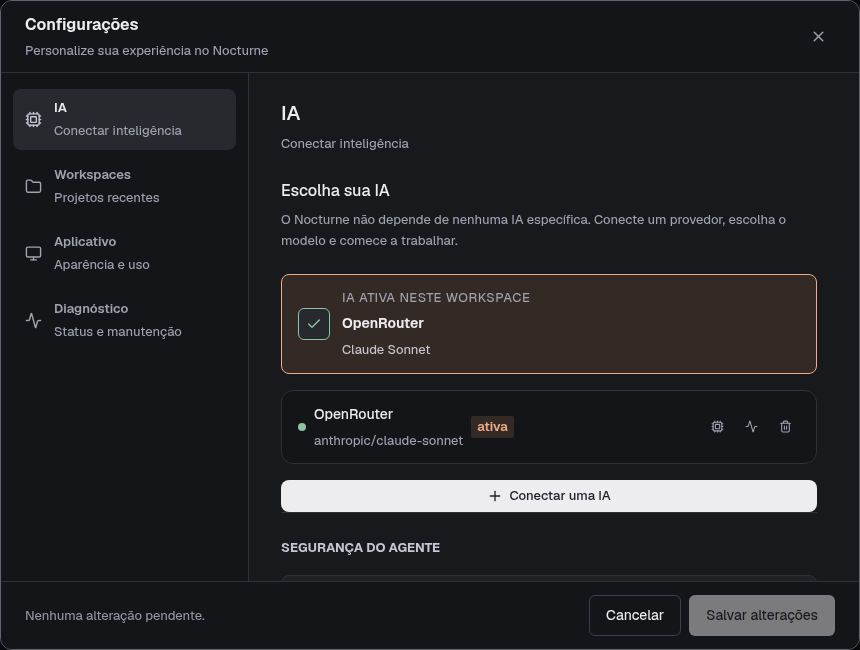
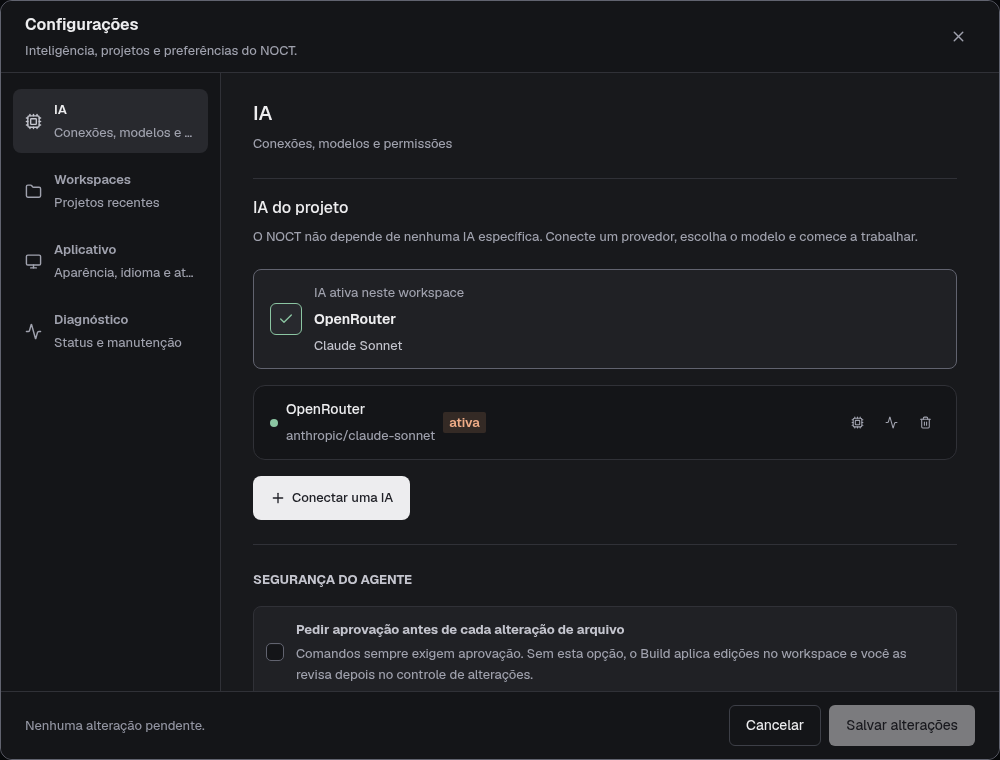
docs: update workspace design and screenshots

diff --git a/DESIGN.md b/DESIGN.md
@@ -144,24 +144,38 @@ components:
     typography: "{typography.label}"
     rounded: "{rounded.md}"
   mode-selected:
-    backgroundColor: "{colors.surface-hover}"
+    backgroundColor: "{colors.surface-raised}"
     textColor: "{colors.text}"
     typography: "{typography.label}"
     rounded: "{rounded.sm}"
-    padding: "6px 8px"
-    height: "32px"
+    padding: "8px 12px"
+    height: "52px"
   command-row:
     backgroundColor: "transparent"
     textColor: "{colors.text-secondary}"
     typography: "{typography.body}"
     rounded: "{rounded.md}"
-    padding: "8px 0"
+    padding: "8px 12px"
     height: "64px"
   composer:
-    backgroundColor: "{colors.surface}"
+    backgroundColor: "{colors.panel}"
     textColor: "{colors.text}"
     typography: "{typography.body}"
     rounded: "{rounded.lg}"
+  workspace-selector:
+    backgroundColor: "{colors.surface}"
+    textColor: "{colors.text}"
+    typography: "{typography.label}"
+    rounded: "{rounded.md}"
+    padding: "12px"
+    height: "64px"
+  provider-option:
+    backgroundColor: "{colors.panel}"
+    textColor: "{colors.text}"
+    typography: "{typography.body}"
+    rounded: "{rounded.md}"
+    padding: "12px"
+    height: "84px"
   settings-field:
     backgroundColor: "{colors.panel}"
     textColor: "{colors.text}"
@@ -179,13 +193,14 @@ components:
 
 A precise desktop workspace whose hierarchy comes from alignment, readable text, and useful content. Neutral charcoal surfaces, pale primary controls, quiet separators, and restrained peach details support long engineering sessions. The light theme follows the same neutral structure with dark primary controls.
 
-Zed, Linear, and Raycast inform the compact desktop grammar. Nocturne retains its own small generated raster N in ivory and muted peach in the brand and assistant identity. The user rejected the illustrated workshop and owl; the confirmed identity has no mascot or large illustration. Navigation, conversation, and evidence remain visibly distinct.
+Zed, Linear, and Raycast inform the compact desktop grammar. Nocturne retains its own small generated raster N in ivory and muted peach in the brand and assistant identity. The user rejected the illustrated workshop and owl; the confirmed identity has no mascot or large illustration. The request anchors the working area, plans and decisions sit alongside it, and project context can recede during reading or writing.
 
 **Key Characteristics:**
 
 - Neutral dark and light surfaces with clear reading contrast.
 - Neutral primary controls; peach marks focus and selected semantic details.
 - Compact rows, restrained corners, and flat working surfaces.
+- A central request surface, adjacent progress and decisions, and collapsible context.
 - One small generated pixel-art N image; conventional interface and code typography.
 
 ## Colors
@@ -216,7 +231,7 @@ The palette is neutral charcoal in dark mode and clean gray in light mode, with 
 
 The interface uses conventional, compact letterforms. Medium weights establish hierarchy without heavy promotional headings; pixel art is confined to the small identity mark.
 
-- **Display:** the effective display token comes from the final studio stylesheet, overriding the earlier base value. It is used by the start heading with tight leading and slight negative tracking.
+- **Display:** the effective display token comes from the studio stylesheet, overriding the earlier base value. It is used by the start heading with tight leading and slight negative tracking.
 - **Headline:** settings page headings and major section titles.
 - **Title:** dialog and compact page titles; the brand wordmark uses its own established medium weight.
 - **Body:** task descriptions, conversation text, and form controls. Long assistant prose uses the existing more generous line height of 1.8.
@@ -227,13 +242,17 @@ The interface uses conventional, compact letterforms. Medium weights establish h
 
 ## Layout
 
-The application fills the desktop window and keeps independently scrollable navigation, conversation, and evidence regions. At wide desktop sizes, the sidebar is (256px), the inspector is (344px), and the central reading/composer width is capped at (840px). The small spacing rhythm starts on a (4px) grid; the frontmatter preserves the real named scale, including the compact (6px) step.
+The application fills the desktop window and keeps independently scrollable navigation, task history, and progress regions. The task-workspace layer sets a (236px) sidebar, a (336px) progress panel, and a flexible central column whose reading and request surfaces are capped at (840px). The sidebar begins with the project selector and a prominent new-task action; recent tasks remain available while recent projects use a disclosure. The topbar is (64px) high. It shows the task title and only the actions that act on it (branch, editor, terminal, memory, settings, help, progress panel). The project name lives in the sidebar, and the agent state lives in the progress panel, so the header never repeats them. Assistant prose is bounded at (72ch).
 
-The final studio override sets the sidebar to (240px) and inspector to (320px) from (981px) through (1320px), including the canonical (1120px) compact-desktop range. At (980px) and below, the existing left and right drawers replace inline side panels: left width `min(310px, 88vw)`, right width `min(390px, 92vw)`. Preserve their backdrops, dismissal behavior, and focus handling. The renderer keeps its minimum window content width (360px).
+From (981px) through (1320px), the sidebar and progress panel become (224px) and (304px), including the canonical (1120px) compact-desktop range. At (980px) and below, existing left and right drawers replace inline side panels: left width `min(310px, 88vw)`, right width `min(390px, 92vw)`. Preserve their backdrops, dismissal behavior, focus containment and restoration. The renderer keeps its minimum window content width (360px). These are task-workspace overrides of the base shell dimensions, not new shared primitive tokens.
 
-At (720px) and below, topbar and composer side padding tightens, secondary topbar actions recede, settings navigation compresses, and quick actions can scroll horizontally. At (520px) and below, welcome actions stack and the start content uses smaller insets. The current mode description remains visible beside the mode choices; do not infer that a compact layout authorizes hiding it. Preserve the existing canonical breakpoints rather than adding a competing responsive scale.
+At (720px) and below, topbar and composer side padding use the compact (16px) inset, the branch chip stays out of the header at (520px) and below, and settings navigation becomes a horizontal strip with visible section names. At (520px) and below, welcome actions stack, the composer footer can wrap, the send action keeps its icon and accessible name, and provider choices become one column. The three mode choices and current mode description remain visible. Preserve the canonical (520px), (720px), (980px), (1120px), and (1320px) responsive ranges.
 
-The start surface uses a compact heading, a project action, and a vertical command list. Its content container is capped at (620px). These start-surface details remain local to that view; other surfaces should follow their content needs. Keep async and error messages in normal layout flow so they cannot cover the project actions.
+The start surface uses a short statement of the working contract and, only when no project is open, one project action. Its content is capped at (680px), with (32px) padding on desktop and (24px) at compact sizes. It scrolls independently above the persistent request composer. Keep async and error messages in normal layout flow, at the same width as the start content. Request modes are the only way to choose what a request does; there are no separate quick-start commands or templates.
+
+Settings use a bounded dialog up to (1000px) wide and (760px) high, constrained by a (48px) total viewport inset. The navigation column is (220px), then (180px) at the drawer range. At (720px) and below, the dialog uses a (24px) total viewport inset and horizontal navigation; content scrolls while header and save/cancel feedback remain available. Provider selection groups local models, API-key services, and custom connections under explanatory headings, with a two-column grid that becomes one column at (520px).
+
+The small spacing rhythm starts on a (4px) grid; the frontmatter preserves the actual named scale, including the compact (6px) step.
 
 ## Elevation & Depth
 
@@ -245,7 +264,7 @@ Motion uses the existing short state transitions and easing. Focus appears immed
 
 ## Shapes
 
-Use the actual radius scale in the frontmatter. Small controls and fields use the compact small radius; conversation and navigation rows use the medium radius; the composer and message containers use the large radius. The extra-large token currently resolves to the same corner size as large. The legacy pill token resolves to the small radius in the studio layer, so a token name does not imply a capsule silhouette.
+Use the actual radius scale in the frontmatter. Small controls, mode choices, and task-history rows use the compact small radius; the project selector, user messages, provider choices, and request command rows use the medium radius; the composer uses the large radius. The extra-large token currently resolves to the same corner size as large. The legacy pill token resolves to the small radius in the studio layer, so a token name does not imply a capsule silhouette.
 
 The mark is a generated raster N with interlocking ivory and muted-peach strokes, preserved as the canonical PNG in assets/logo/nocturne-logo.png. It occupies a transparent brand box (28px); the assistant mark is drawn at (24px) inside a (28px) identity slot. The light theme darkens the same mark through its existing filter. Use the generated image directly; preserve its alpha, proportions, and native edge detail rather than redrawing the artwork in code. Small instances use normal image sampling. Status dots retain circular geometry.
 
@@ -253,21 +272,21 @@ The mark is a generated raster N with interlocking ivory and muted-peach strokes
 
 ### Buttons
 
-Primary actions are compact and neutral. Shared dialog primary actions use the frontmatter's small radius, body typography, and standard control sizing; start project actions use the established medium radius and label typography. Send is an icon control using the same neutral color pair. Disabled controls remain visibly inactive; the send control changes to a separate stop/cancel state during execution.
+Primary actions are compact and neutral. Shared dialog primary actions use the frontmatter's small radius, body typography, and standard control sizing; start project actions use the established medium radius and label typography. The new-task action uses the neutral control pair in dark mode; its existing light treatment remains a white surface with dark text. Send pairs its icon with a text label, hiding only that visible label at the narrow breakpoint while preserving the accessible name. Disabled controls remain visibly inactive; the send control changes to a separate stop/cancel state during execution.
 
-Secondary and new-conversation actions use text, transparent or surface fills, and quiet borders. Hover changes color or border treatment without translation or scale. All actionable targets preserve the minimum (32px) interaction floor. The header path action explicitly uses that minimum even though its text looks secondary.
+Secondary actions use text, transparent or surface fills, and quiet borders. Hover changes color or border treatment without translation or scale. All actionable targets preserve the minimum (32px) interaction floor. The header path action explicitly uses that minimum even though its text looks secondary.
 
 ### Inputs / Fields
 
-Search rests on a transparent surface and gains a stronger surface/border on focus. The composer uses a surface fill, a quiet border, and the large radius; focus strengthens the border without a glow. Preserve its labelled textarea, attachment actions, model choice, send/stop behavior, and existing growth bound.
+Search rests on a transparent surface and gains a stronger surface/border on focus. The request composer is one box with a visible label outside it: the textarea sits above a single footer that holds the attachment control, the AI selector and the send/stop action. The mode switch and its one-line description sit above the box, never inside it. The textarea begins at (72px) and grows to the existing (220px) bound before scrolling. Missing-AI guidance is the AI selector itself, in the accent color, not a separate line. Preserve disabled, cancellation, and saving states.
 
 Settings use the same shared tokens rather than a separate theme: form fields have the small radius, panel fill, body text, and the current field minimum (40px). Hover clarifies the border; focus uses the shared peach outline and focus ring. Checkbox visuals stay compact inside labelled interaction rows; checked state uses the semantic accent pair. Inline errors remain textually clear and connected to their context.
 
 ### Navigation
 
-Sidebar tools and conversation rows use neutral selected surfaces with visible text states. New-conversation and search controls share the compact sidebar rhythm. Stable row actions must remain keyboard reachable. Settings navigation reuses the neutral selected surface and medium radius, with larger rows suited to its title and description.
+Sidebar tools and task-history rows use neutral selected surfaces with visible text states; the selected task also has an inset border in dark mode. The project selector has a bounded surface, while recent projects recede into a disclosure. New-task and search controls share the compact sidebar rhythm. Settings is a labelled footer action. Stable row actions must remain keyboard reachable. Settings navigation reuses the neutral selected surface and medium radius, with larger rows suited to its title and description.
 
-Inspector tabs use text and a quiet underline for the selected view; decorative tab icons recede. Empty activity states use a useful sentence and supporting hint. Other existing inspector views may retain small functional icons; do not replace idle guidance with another brand illustration.
+The progress panel has a compact heading, execution state, and four text tabs with a quiet selected underline. The tabs keep a (44px) minimum height. Empty activity states use a useful sentence and supporting hint beneath a separator, aligned with the working content. Other existing inspector views may retain small functional icons; do not replace idle guidance with another brand illustration.
 
 ### Chips
 
@@ -277,11 +296,17 @@ Branch metadata is a quiet text treatment on a transparent background, with comp
 
 Activity containers use the medium radius, transparent working surface, and subtle border. Their summary row keeps the established large control height (44px); opened sections gain a tonal heading surface. Plans, files, diffs, artifacts, and documents remain flat, bounded working regions. Preserve progressive disclosure and independent scrolling for long content.
 
-### Mode Header and Command List
+### Task Modes and Decisions
 
-Build, Review, and Docs sit directly above the composer as a keyboard-operable radio group. The active choice uses a neutral selected surface. A visible current description is linked with `aria-describedby`; arrow keys and Home/End move between modes. Keep the visible Build safety note and pending-approval notice.
+Analyze, Implement, and Document appear as one segmented radio group above the request box, sized to its labels. Each choice shows only its action name; the one-line description beneath the group states what the selected mode does to the project (reads and suggests, edits files and asks for approval of commands, writes documentation). The internal mode names Review, Build, and Docs are not shown. The active choice uses a neutral selected surface; arrow keys and Home/End move between modes. The placeholder of the request box follows the selected mode.
 
-The start list presents existing task commands as full-width rows with a small functional icon, a clear title, supporting text, and a trailing arrow. Rows have a stable minimum height (64px), a quiet hover surface, and no elevated card treatment. They prepare the task through the existing actions; styling does not alter approvals or execution boundaries.
+The pending-approval notice pairs warning color with explicit text and a review action. That action opens the progress panel, selects Activity, and focuses the pending decision. It never accepts the decision. Plans, activities, suggestions, artifacts, and validation retain their distinct views and existing approval boundaries.
+
+The pending-approval notice sits above the mode group and leads to the pending decision in the progress panel; it never accepts the decision.
+
+### AI Connections
+
+Settings retain the shared field and navigation grammar. The active connection is a flat medium-radius surface, followed by existing connection controls and a neutral add action. Connection selection separates local models, services using an API key, and custom endpoints with plain explanatory copy. Provider options use a panel fill, medium radius, subtle icon block, and (84px) minimum height; hover clarifies the border and surface. Descriptions wrap at narrow widths, and each choice exposes its provider name with associated supporting text. Authentication, model selection, feedback, and saved-state behavior remain explicit.
 
 ## Do's and Don'ts
 
@@ -293,6 +318,7 @@ The start list presents existing task commands as full-width rows with a small f
 - Do keep the small generated N mark crisp and the interface text in Geist, with Geist Mono for code and shortcuts.
 - Do preserve canonical responsive drawers, independent scrolling, bounded histories, and stable control geometry.
 - Do keep the selected mode description visible and associated with the current mode control.
+- Do keep the request separate from sending, and decision navigation separate from approval.
 
 ### Don't:
 

diff --git a/.impeccable/surfaces/src-app-tsx.md b/.impeccable/surfaces/src-app-tsx.md
@@ -2,27 +2,27 @@
 version: 1
 slug: "src-app-tsx"
 primary_target: "src/App.tsx"
-related_targets: ["src/styles/tokens.css","src/styles/studio.css"]
+related_targets: ["src/styles/task-workspace.css","src/domains/chat/Composer.tsx","src/domains/agent/AgentPanel.tsx","src/domains/settings/AIConnectionPage.tsx"]
 ---
 
-# Desktop workspace redesign
+# Task workspace
 
 Mode: Operate. Renderer, assets, tests and frontend documentation only.
 The user rejected the previous workshop scene and owl as AI-looking. They explicitly selected a small, carefully drawn pixel mark, with no large illustration, after the proposed Zed / Linear / Raycast references. This pins the direction and takes precedence over concept seed 3deb5843 (index 4). No generated comp is authoritative; implementation follows actual desktop UI references.
 
 ## Direction contract
 
-THESIS: A precise desktop workspace whose hierarchy comes from alignment and useful content. Replace the illustrated landing-page treatment with a practical start screen.
+THESIS: The request anchors the work. Plans, decisions and results remain alongside it; project context can recede when reading or writing.
 
 OWN-WORLD: Neutral charcoal, pale controls, restrained peach details, quiet separators, Geist UI and Geist Mono for code. A small generated pixel-art N image is the only pixel-art motif. No mascot or decorative scene.
 
-STORY: Choose the project, prepare the task, choose Build / Review / Docs, then inspect the visible work and approvals. All existing commands and safeguards retain their behavior.
+STORY: Choose the project, write a goal, select Analyze / Implement / Document, inspect the proposal and decide explicitly. Templates prepare a request without executing it. The approval notice leads directly to the pending decision.
 
-FIRST VIEWPORT: A 256px quiet sidebar, a flexible conversation surface, and a 344px evidence panel. A compact brand and subdued new-conversation action recede behind work. The start screen presents an open-project action and a command list. Mode choices sit directly above a compact message composer. Inspector idle states use useful text instead of another logo.
+FIRST VIEWPORT: A 236px project/task sidebar, flexible central history and request surface, and a 336px progress panel. At compact desktop widths these become 224px and 304px. The request surface contains the textarea, explained modes, AI selector and send action. Recent projects and request templates are disclosures; canonical narrow drawers retain focus containment.
 
-FORM: The user confirmed the competitor-referenced desktop grammar. Grounded sources considered: Zed docking; Linear navigation; Raycast commands; native command palettes; Git clients; terminal multiplexers; digital notebooks. The script's fourth assignment is native command palettes. Catalog motifs cannot override the user's confirmed references; retain their information-priority and state-discipline lessons without importing costumes.
+FORM: User selected task flow (candidate 3, seed 753961b8) over conversation-first and project-overview compositions. Code-led composition; the decision wireframe is a comparison reference, not an approved visual comp. The existing neutral desktop world remains pinned.
 
-Signature interaction: keyboard-operable mode selection and stable row actions. Focus appears immediately without movement; reduced motion remains respected.
+Signature interaction: the pending-decision action opens the activity panel and focuses the actual decision without accepting it. Mode selection uses arrow keys; disclosures support keyboard use. Existing short state transitions preserve geometry and reduced motion.
 
 FINISH: unreviewed and undocumented is unfinished; this build ends with the finish review, the verdict, DESIGN.md, and every shipping raster carrying its provenance
 

diff --git a/docs/images/README.md b/docs/images/README.md
@@ -1,16 +1,16 @@
 # Current product screenshots
 
-Captured on 2026-10-19 from the real React renderer using Playwright/Chromium,
+Captured on 2026-10-29 from the real React renderer using Playwright/Chromium,
 the dark theme and Portuguese locale. The workspace, conversation and AI binding
 are demonstration data supplied through the mock preload bridge from
 `tests/renderer/mockNocturne.ts`; no account, key or private project was used.
-The example conversation was replaced with a short authentication-review demo.
+The example conversation and AI binding come directly from the renderer fixture.
 
 | Image | View |
 | --- | --- |
-| `workspace-overview.png` | Workspace at 1440 × 900 with conversation, agent panel and active AI |
+| `workspace-overview.png` | Workspace at 1440 × 900 with the task, progress panel and active AI |
 | `ai-providers.png` | Settings dialog with remote API presets |
-| `local-models.png` | Settings dialog scrolled to local runtimes and a custom endpoint |
+| `local-models.png` | Settings dialog showing local runtime choices above the API group |
 | `ai-connections.png` | Settings dialog with the provider and model bound to the workspace |
 
 The dialog images are native element screenshots at a 1440 × 900 viewport.

diff --git a/README.pt-BR.md b/README.pt-BR.md
@@ -18,6 +18,9 @@ continuam conectados em vez de serem reconstruídos a cada conversa.
 ![Workspace do NOCT com IA ativa, conversa e painel do agente](docs/images/workspace-overview.png)
 
 As capturas mostram a interface atual em português com dados de demonstração.
+O pedido fica no centro, com planos e aprovações ao lado. O contexto do projeto
+e os modelos de pedido podem ser recolhidos; Analisar, Implementar e Documentar
+explicam a função de cada modo antes do envio.
 
 ## O que ele faz
 
@@ -79,7 +82,7 @@ publicam checksums sem assinatura de plataforma nem notarização; consulte
 
 Ollama, LM Studio e endpoints próprios usam o mesmo fluxo de conexão.
 
-![Opções de runtimes locais e endpoint próprio](docs/images/local-models.png)
+![Opções de modelos locais em Configurações → IA](docs/images/local-models.png)
 
 A conexão ativa mostra o Provider e o modelo vinculados ao workspace.
 

diff --git a/README.md b/README.md
@@ -18,6 +18,9 @@ being reconstructed in every conversation.
 ![NOCT workspace with the active AI, conversation and agent panel](docs/images/workspace-overview.png)
 
 Screenshots show the current interface in Portuguese with demonstration data.
+The request stays in the center, with plans and approvals alongside it.
+Project context can be collapsed; Analyze, Implement and Document say what each
+mode does to the project before you send.
 
 ## What it does
 
@@ -76,7 +79,7 @@ checksums without platform signing/notarization. See
 
 Ollama, LM Studio and custom endpoints use the same connection flow.
 
-![Local runtimes and custom endpoint options](docs/images/local-models.png)
+![Local runtime choices in Settings → AI](docs/images/local-models.png)
 
 The active connection shows the provider and model bound to the workspace.
 
